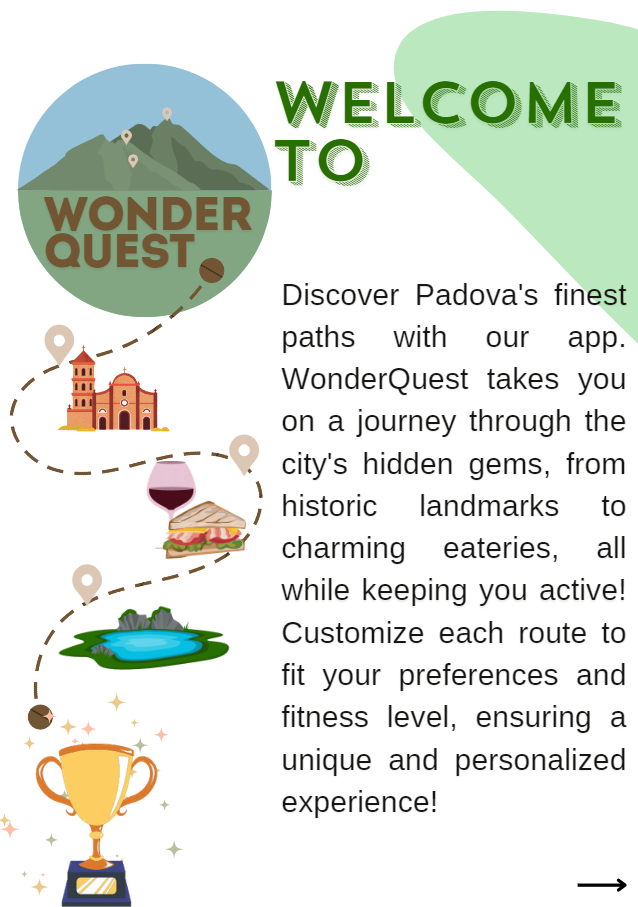
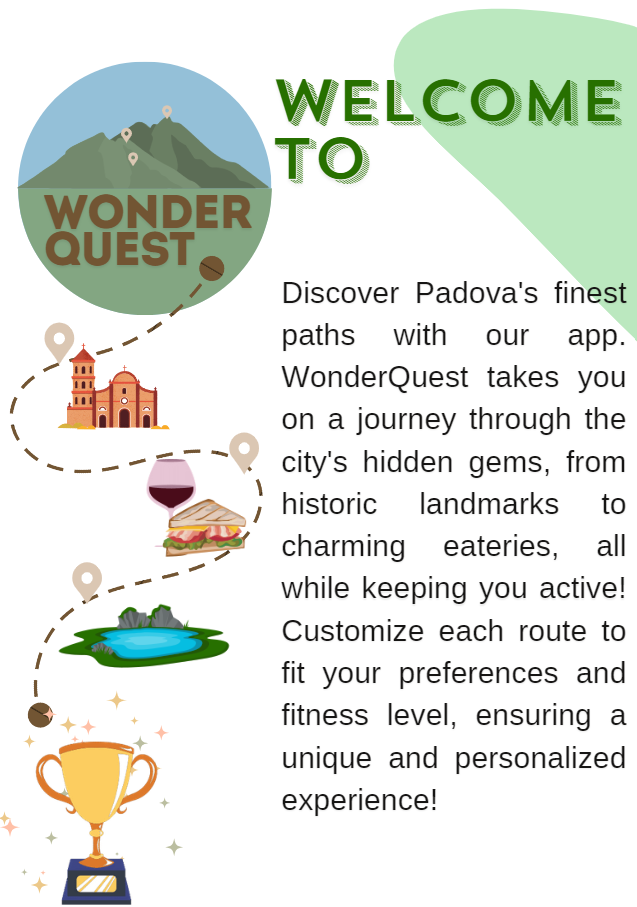
Creazione pagina ManualSearchPage per la ricerca manuale, piccola modifica ad alcune immagini e modifica alla bottomnavigationpage

diff --git a/project/lib/screens/ManualSearchPage.dart b/project/lib/screens/ManualSearchPage.dart
@@ -1,0 +1,103 @@
+import 'package:flutter/material.dart';
+import 'package:provider/provider.dart';
+import 'package:project/objects/trail.dart';
+import 'package:project/providers/trailstate.dart';
+import 'package:project/screens/trailPage.dart';
+
+class ManualSearch extends StatefulWidget {
+  const ManualSearch({super.key});
+
+  @override
+  State<ManualSearch> createState() => _ManualSearchState();
+}
+
+class _ManualSearchState extends State<ManualSearch> {
+  final ScrollController _scrollController = ScrollController();
+
+  @override
+  Widget build(BuildContext context) {
+    var trailState = context.watch<TrailState>();
+
+    return Scaffold(
+      appBar: AppBar(
+        title: Text('Manual Search'),
+        backgroundColor: Colors.green.shade100,
+      ),
+      body: Center(
+        child: Column(
+          mainAxisAlignment: MainAxisAlignment.start,
+          children: <Widget>[
+            Padding(
+              padding: const EdgeInsets.all(16.0),
+              child: Text(
+                'Here, you can choose any trail you prefer, regardless of your skill level. However, make sure to carefully check the difficulty level of each trail!',
+                style: TextStyle(fontSize: 16.0),
+              ),
+            ),
+            Expanded(
+              flex: 3,
+              child: sessionList(trailState),
+            ),
+            Row(
+              mainAxisAlignment: MainAxisAlignment.center,
+              children: [
+                IconButton(
+                  icon: Icon(Icons.arrow_upward),
+                  onPressed: () {
+                    _scrollController.animateTo(
+                      _scrollController.position.minScrollExtent,
+                      duration: Duration(milliseconds: 500),
+                      curve: Curves.easeOut,
+                    );
+                  },
+                ),
+                IconButton(
+                  icon: Icon(Icons.arrow_downward),
+                  onPressed: () {
+                    _scrollController.animateTo(
+                      _scrollController.position.maxScrollExtent,
+                      duration: Duration(milliseconds: 500),
+                      curve: Curves.easeOut,
+                    );
+                  },
+                ),
+              ],
+            ),
+          ],
+        ),
+      ),
+    );
+  }
+
+  Widget sessionList(TrailState trailState) {
+    var undoneTrails = trailState.doneTrails;
+    return ListView.builder(
+      controller: _scrollController,
+      padding: const EdgeInsets.all(8.0),
+      itemCount: undoneTrails.length,
+      itemBuilder: (context, index) {
+        Trail tmp = undoneTrails[index];
+        return Card(
+          margin: const EdgeInsets.symmetric(vertical: 8.0),
+          child: ListTile(
+            title: Text('${tmp.name}'),
+            subtitle: Text('${tmp.date.toLocal()}'.split(' ')[0]),
+            trailing: Icon(Icons.arrow_forward_ios),
+            onTap: () async {
+              var updatedTrail = await Navigator.push(
+                context,
+                MaterialPageRoute(builder: (context) => TrailPage(trail: tmp)),
+              );
+              // Aggiorna undoneTrails se il trail è stato modificato
+              if (updatedTrail != null) {
+                setState(() {
+                  trailState.updateTrail(updatedTrail);
+                });
+              }
+            },
+          ),
+        );
+      },
+    );
+  }
+}

diff --git a/project/lib/screens/bottomnavigationpage.dart b/project/lib/screens/bottomnavigationpage.dart
@@ -1,5 +1,6 @@
 import 'package:flutter/material.dart';
 import 'package:project/screens/autosearchPage.dart';
+import 'package:project/screens/ManualSearchPage.dart'; 
 import 'package:project/screens/profile.dart';
 import 'package:project/screens/homepage.dart';
 import 'package:project/widgets/expandableFab.dart';
@@ -39,66 +40,48 @@ class _HomePageState extends State<BottomNavigationBarPage> {
     }
   }
 
-//x button che si espande:
-  static const _actionTitles = ['AI advice!', 'Search page'];
-
-  void _showAction(BuildContext context, int index) {
-    showDialog<void>(
-      context: context,
-      builder: (context) {
-        return AlertDialog(
-          content: Text(_actionTitles[index]),
-          actions: [
-            TextButton(
-              onPressed: () => Navigator.of(context).pop(),
-              child: const Text('CLOSE'),
-            ),
-          ],
-        );
-      },
-    );
-  }
-
   @override
   Widget build(BuildContext context) {
     return Scaffold(
       body: _showPage(index: _showIndex),
       bottomNavigationBar: BottomNavigationBar(
-          onTap: (index) {
-            setState(() {
-              _showIndex = index;
-            });
-          },
-          currentIndex: _showIndex,
-          items: <BottomNavigationBarItem>[
-            BottomNavigationBarItem(icon: Icon(Icons.home), label: 'Home'),
-            BottomNavigationBarItem(icon: Icon(Icons.person), label: 'Profile')
-
-            //aggiungere bottone nuova sessione
-          ]),
+        onTap: (index) {
+          setState(() {
+            _showIndex = index;
+          });
+        },
+        currentIndex: _showIndex,
+        items: const <BottomNavigationBarItem>[
+          BottomNavigationBarItem(icon: Icon(Icons.home), label: 'Home'),
+          BottomNavigationBarItem(icon: Icon(Icons.person), label: 'Profile')
+        ],
+      ),
       floatingActionButtonLocation: FloatingActionButtonLocation.centerDocked,
       floatingActionButton: ExpandableFab(
         distance: 80,
         children: [
-          //ActionButton(onPressed: () => _showAction(context, 0), icon: const Icon(Icons.auto_awesome),text: 'Get advice'),
           ActionButton(
-              onPressed: () {
-                Navigator.push(context,
-                    MaterialPageRoute(builder: (context) => AutoSearch()));
-              },
-              icon: const Icon(Icons.auto_awesome),
-              text: 'Get advice'),
+            onPressed: () {
+              Navigator.push(
+                context,
+                MaterialPageRoute(builder: (context) => AutoSearch()),
+              );
+            },
+            icon: const Icon(Icons.auto_awesome),
+            text: 'Get advice',
+          ),
           ActionButton(
-              onPressed: () => _showAction(context, 1),
-              icon: const Icon(Icons.travel_explore),
-              text: 'Manual search'),
+            onPressed: () {
+              Navigator.push(
+                context,
+                MaterialPageRoute(builder: (context) => ManualSearch()), 
+              );
+            },
+            icon: const Icon(Icons.travel_explore),
+            text: 'Manual search',
+          ),
         ],
       ),
-      //floatingActionButton: FloatingActionButton(
-      //onPressed: _incrementCounter,
-      //tooltip: 'Increment',
-      //child: const Icon(Icons.add),
-      //),
     );
   }
 }
